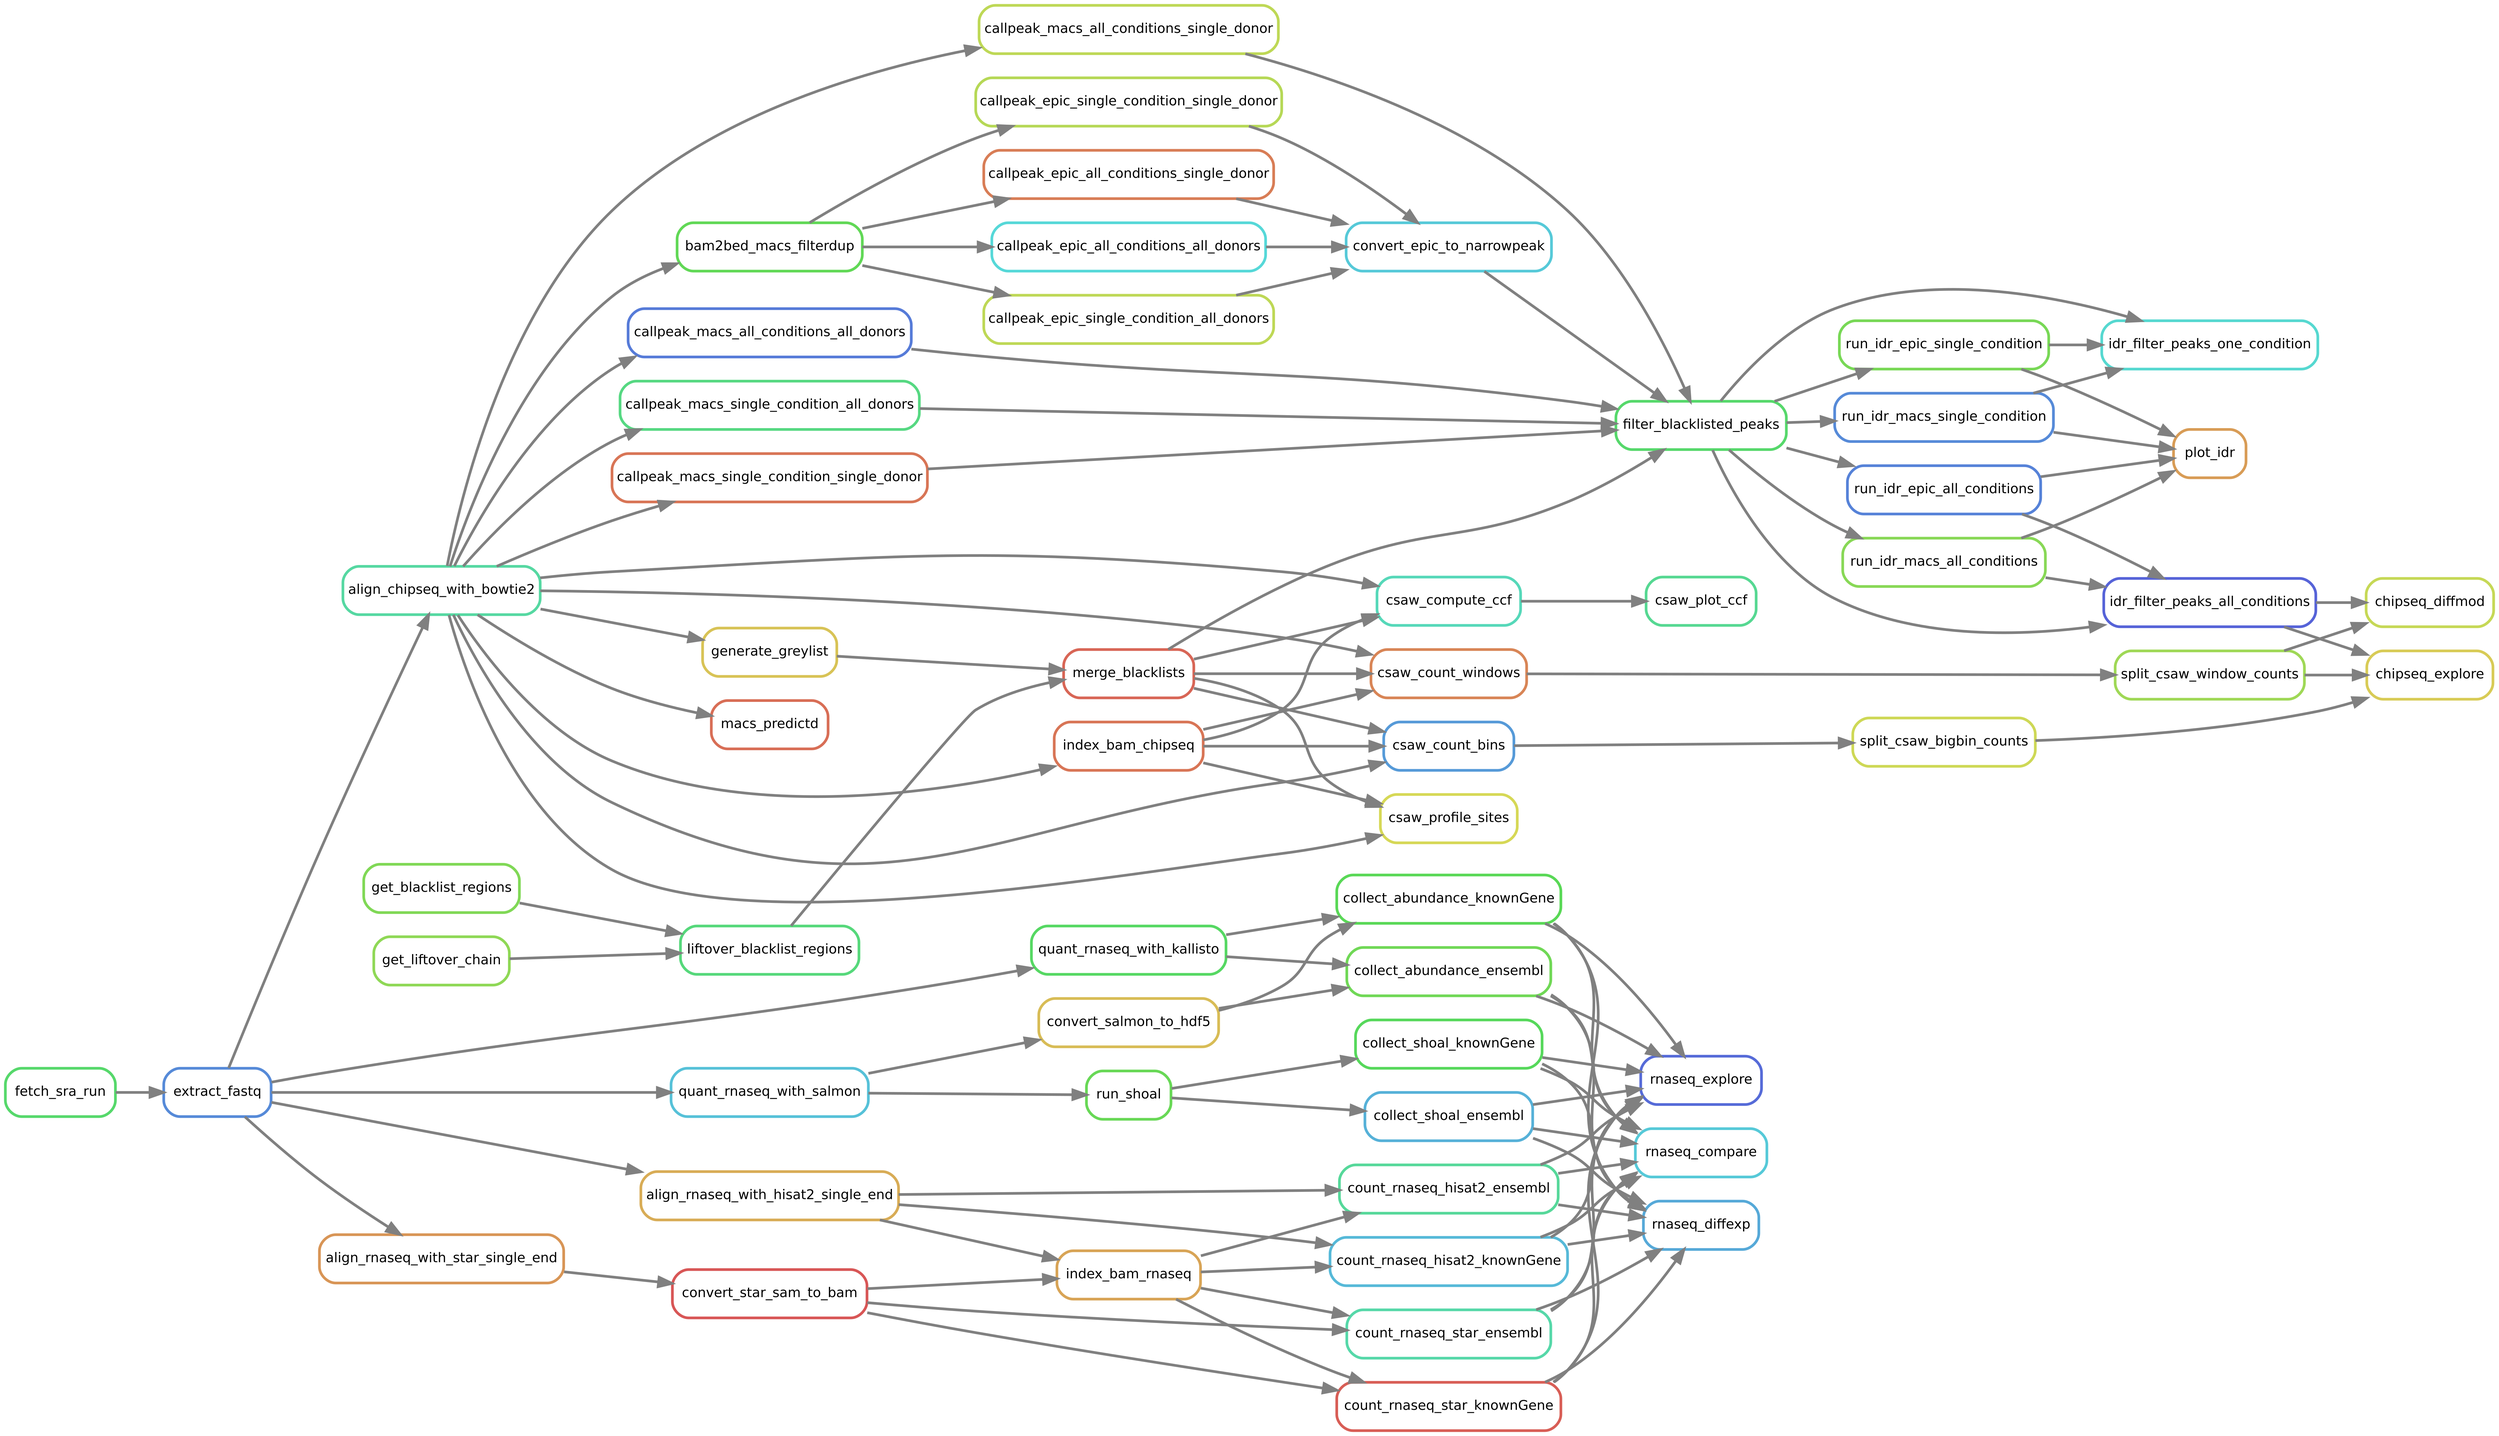
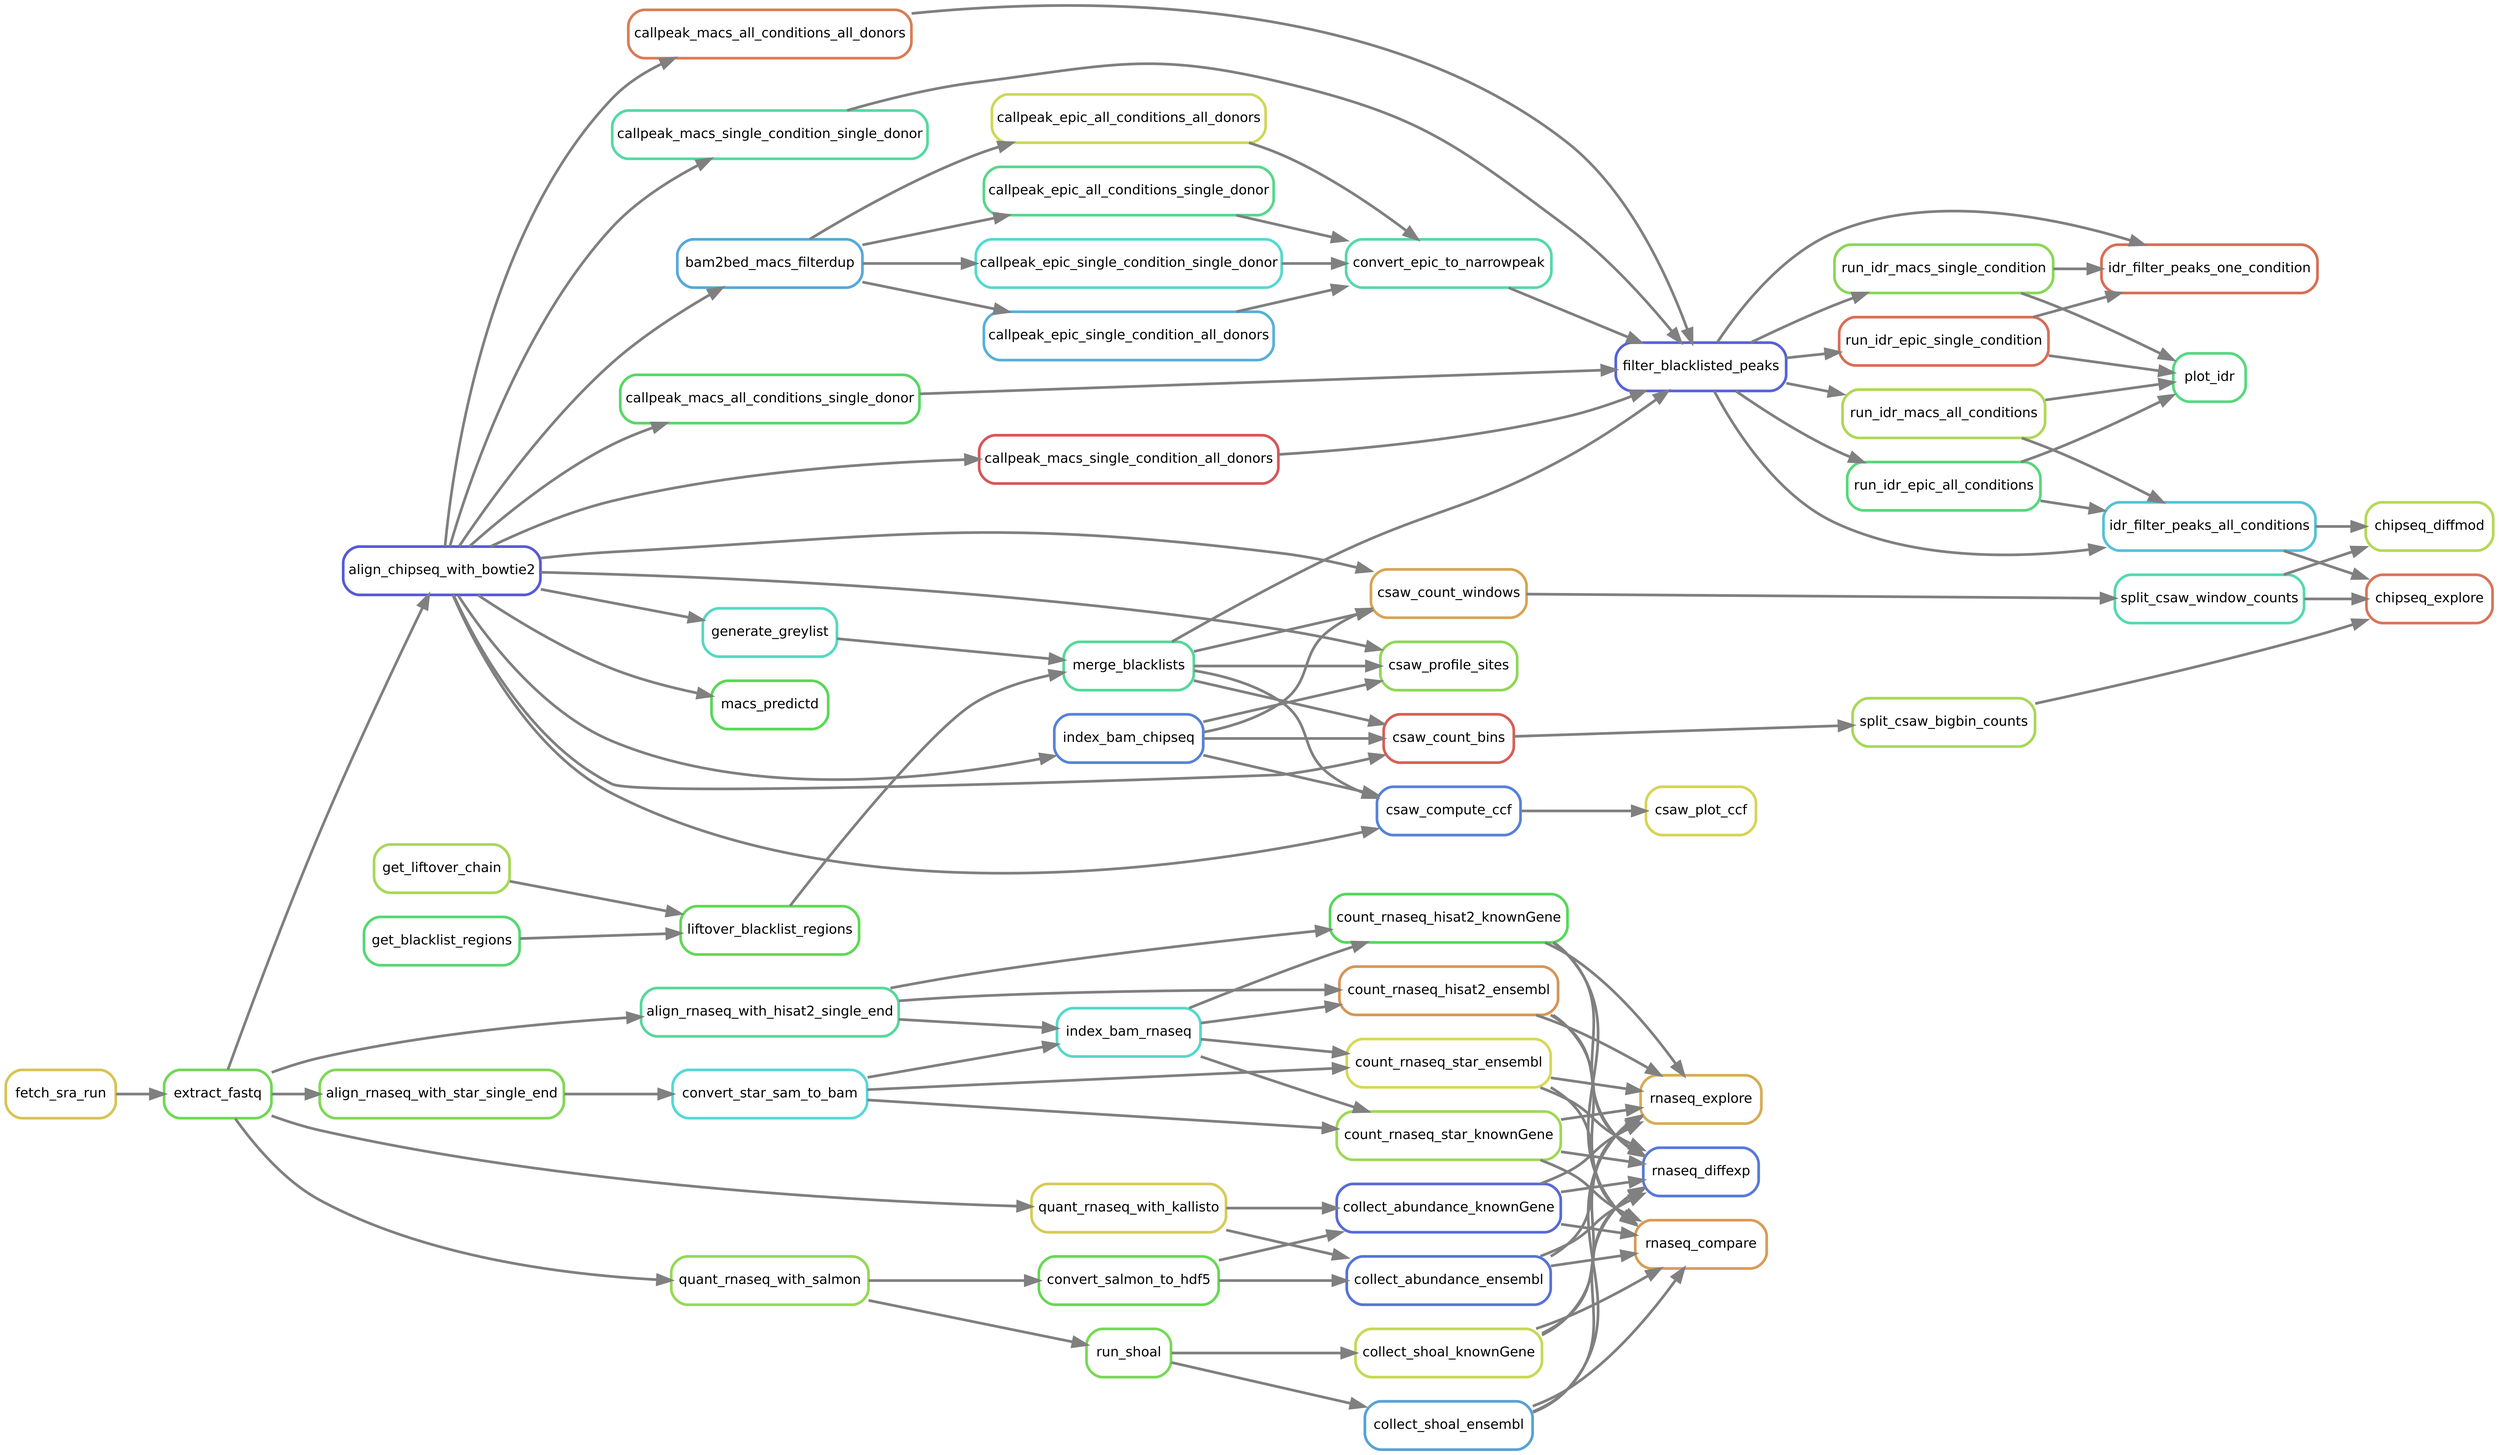
Completed rules for generating promoter ChIP-seq counts
Also made saved_data file names more consistent, using underscore as a
field separator and dash as a word separator within fields in file
names.

Changed region(s): [[0.0, 0.0, 0.9982, 0.9978]]

diff --git a/mem_requirements.py b/mem_requirements.py
@@ -8,4 +8,9 @@ MEMORY_REQUIREMENTS_GB = {
     'macs_callpeak': 30,
     'epic_callpeak': 20,
     'greylist': 30,
+    'csaw_count_windows': 60,
+    'csaw_count_bins': 20,
+    'csaw_count_promoters': 3,
+    'rnaseq_analyze': 10,
+    'chipseq_analyze': 40,
 }
